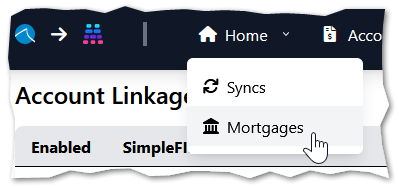
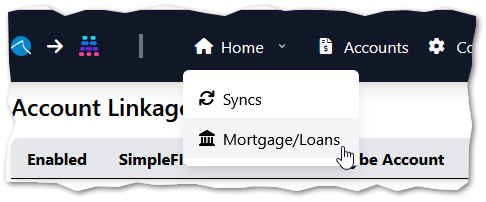
docs updates

diff --git a/docs/mortgage-sync.md b/docs/mortgage-sync.md
@@ -1,8 +1,8 @@
-# Mortgage Sync
+# Mortgage & Loan Sync
 
 ## Problem and Solution
 
-When paying monthly towards a mortgage, your money likely goes towards multiple balances:
+When paying monthly towards a mortgage or loan, your money likely goes towards multiple balances:
 
 1. Principal
 1. Interest
@@ -22,11 +22,13 @@ Escrow is typically static and divided evenly over the course of a year
 
 ## Setup
 
-Access the **Mortgages** feature in the top dropdown menu:
+Access the **Mortgage/Loans** feature in the top dropdown menu:
 
 ![dropdown menu](assets/images/mortgage-dropdown.png)
 
-Choose a *Maybe* account of type `Loan`, specify your **APR**, **Escrow Payment** (or `0` if you do not wish to create an Escrow transaction), and **Day of Month** to create the transactions on:
+Choose a *Maybe* account of type `Loan`, specify your **APR**, **Escrow Payment** (or `0` if you do not wish to create an Escrow transaction), and **Day of Month** to create the transactions on.
+
+If you'd the inserted transactions to be considered `One-Time` in *Maybe* (and thus \*not\* included in Budgeting, etc.), use the **Exclude** checkbox:
 
 ![loan config](assets/images/mortgages-config.png)
 
